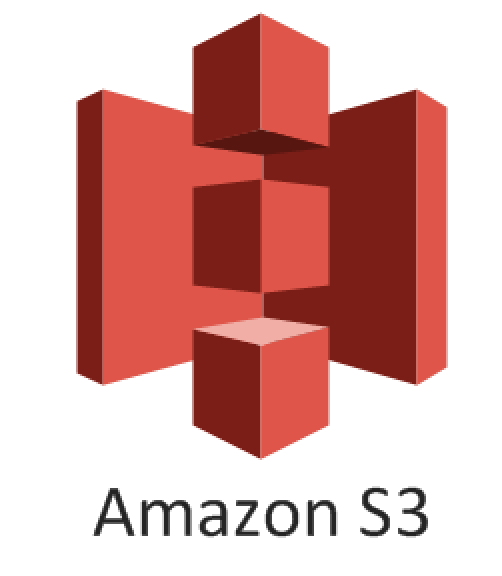
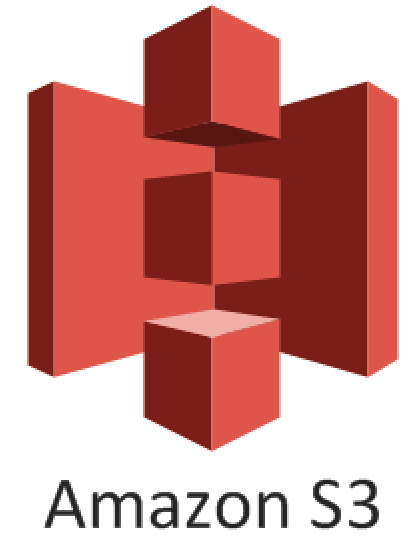
More refactoring

Changed region(s): [[0.0622, 0.1476, 0.9641, 0.9742], [0.2799, 0.0, 0.7464, 0.2657]]

diff --git a/index.html b/index.html
@@ -31,7 +31,7 @@
 <nav class="navbar navbar-expand-lg navbar-dark bg-primary fixed-top" id="sideNav">
     <a class="navbar-brand js-scroll-trigger" href="#page-top">
         <span class="d-none d-lg-block">
-          <img class="img-fluid img-profile rounded-circle mx-auto mb-2" src="img/my-profile.jpg" alt="">
+          <img class="img-fluid img-profile rounded-circle mx-auto mb-2" src="img/dp.jpg" alt="">
         </span>
     </a>
     <button class="navbar-toggler" type="button" data-toggle="collapse" data-target="#navbarSupportedContent"
@@ -353,7 +353,10 @@
                     <img src="img/skills/aws/amazon-dynamo-db.jpg" height="70" width="95">
                 </li>
                 <li class="list-inline-item">
-                    <img src="img/skills/aws/s3.jpg" height="70" width="95">
+                    <img src="img/skills/aws/aws-lambda.jpg" height="70" width="95">
+                </li>
+                <li class="list-inline-item">
+                    <img src="img/skills/aws/s3.jpg" height="70" width="80">
                 </li>
                 <li class="list-inline-item">
                     <img src="img/skills/aws/sqs.jpg" height="70" width="95">
